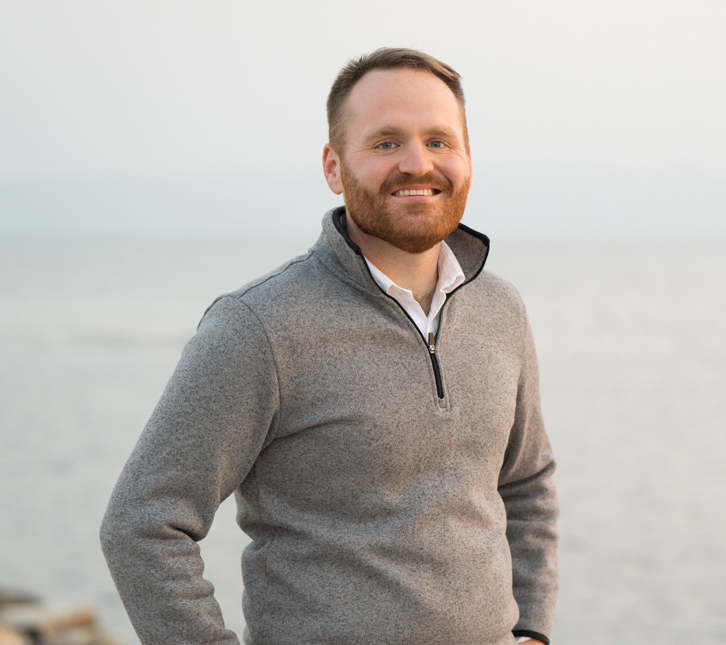
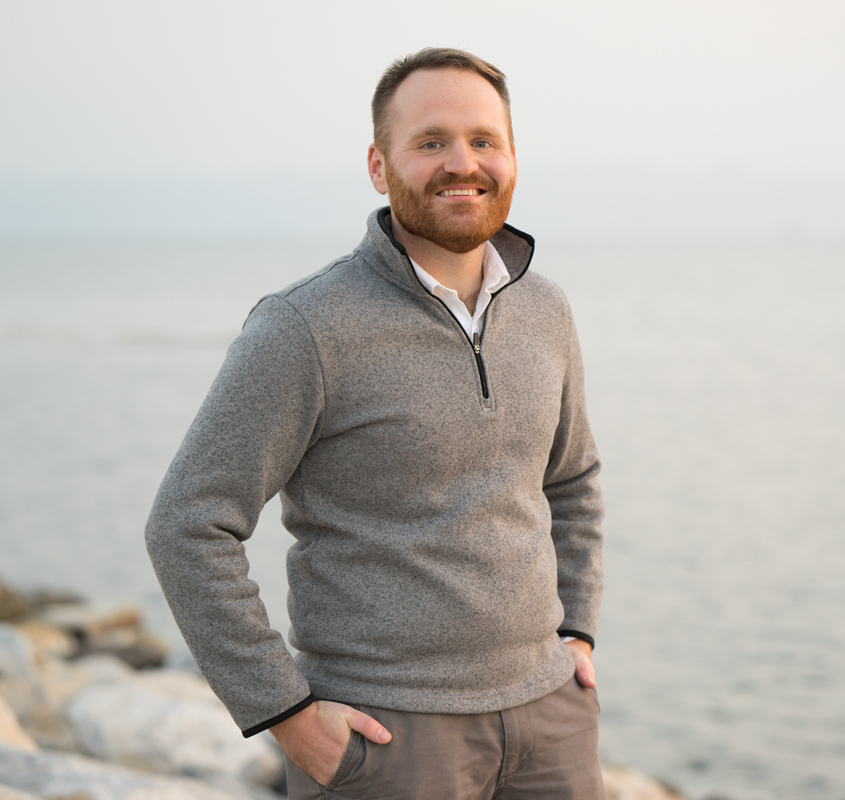
Make the picture of my always be at the top

diff --git a/assets/sass/layout/_panel.scss b/assets/sass/layout/_panel.scss
@@ -224,3 +224,11 @@
 			}
 		}
 	}
+
+	@media screen and (max-width: 980px) {
+		#about {
+			div.image {
+				background-position: top center !important;
+			}
+		}
+	}
